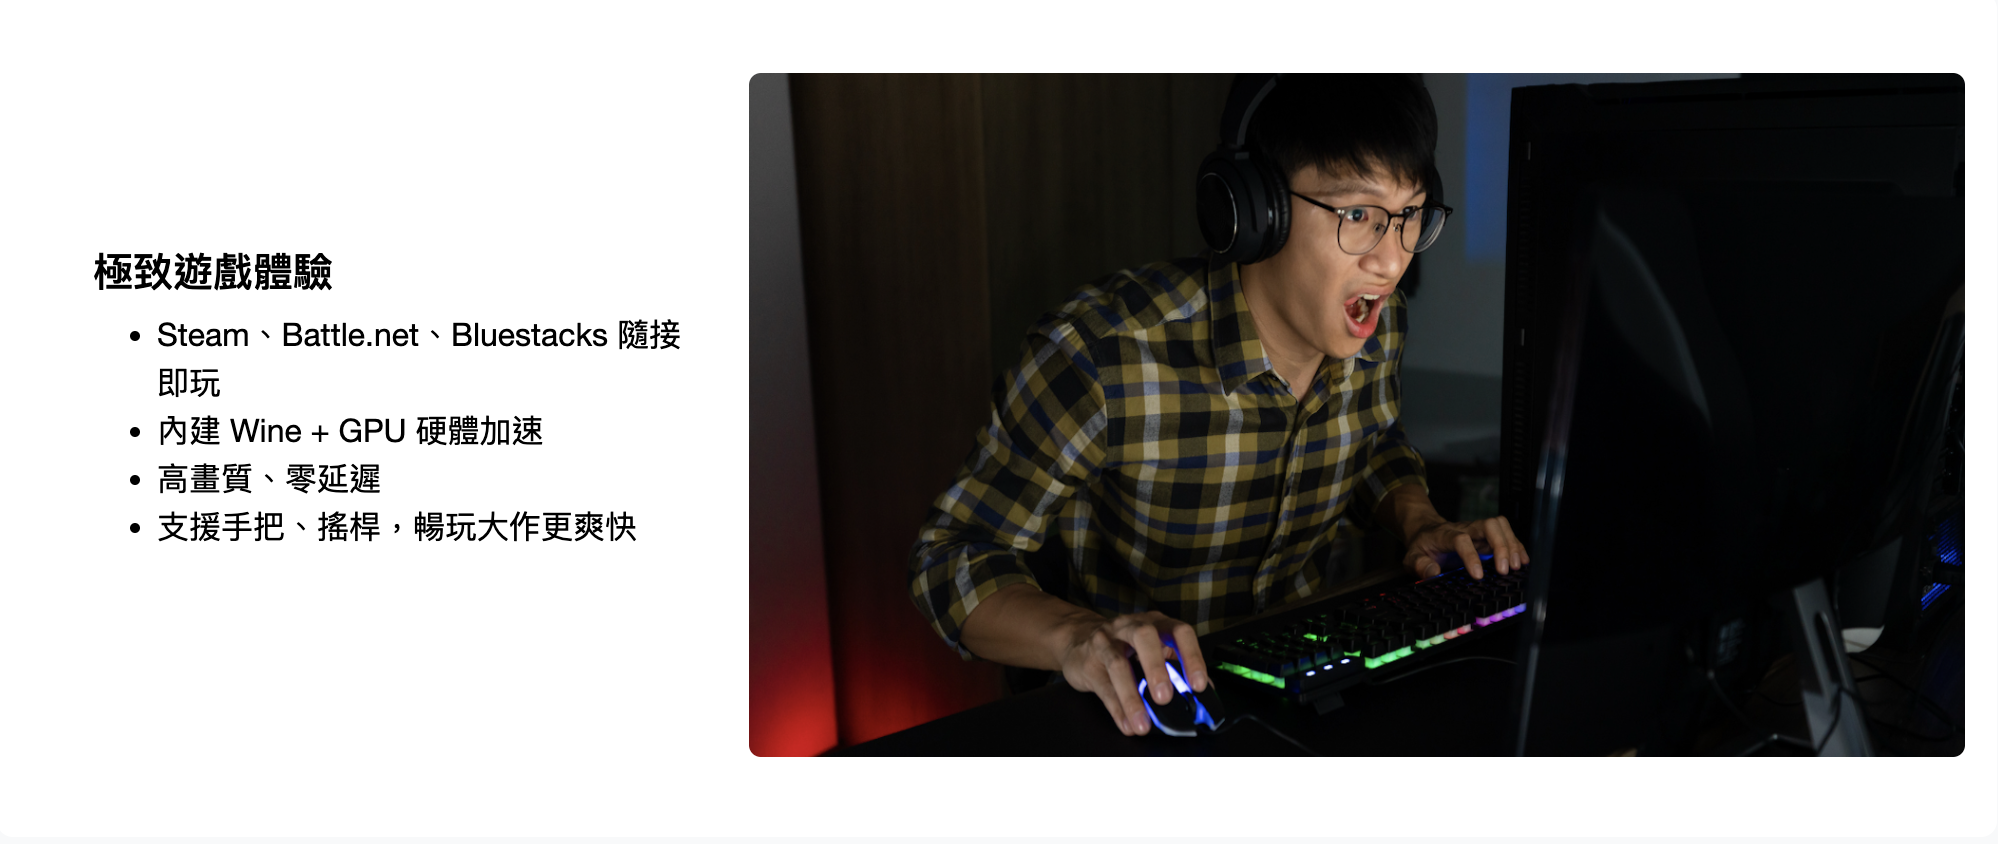
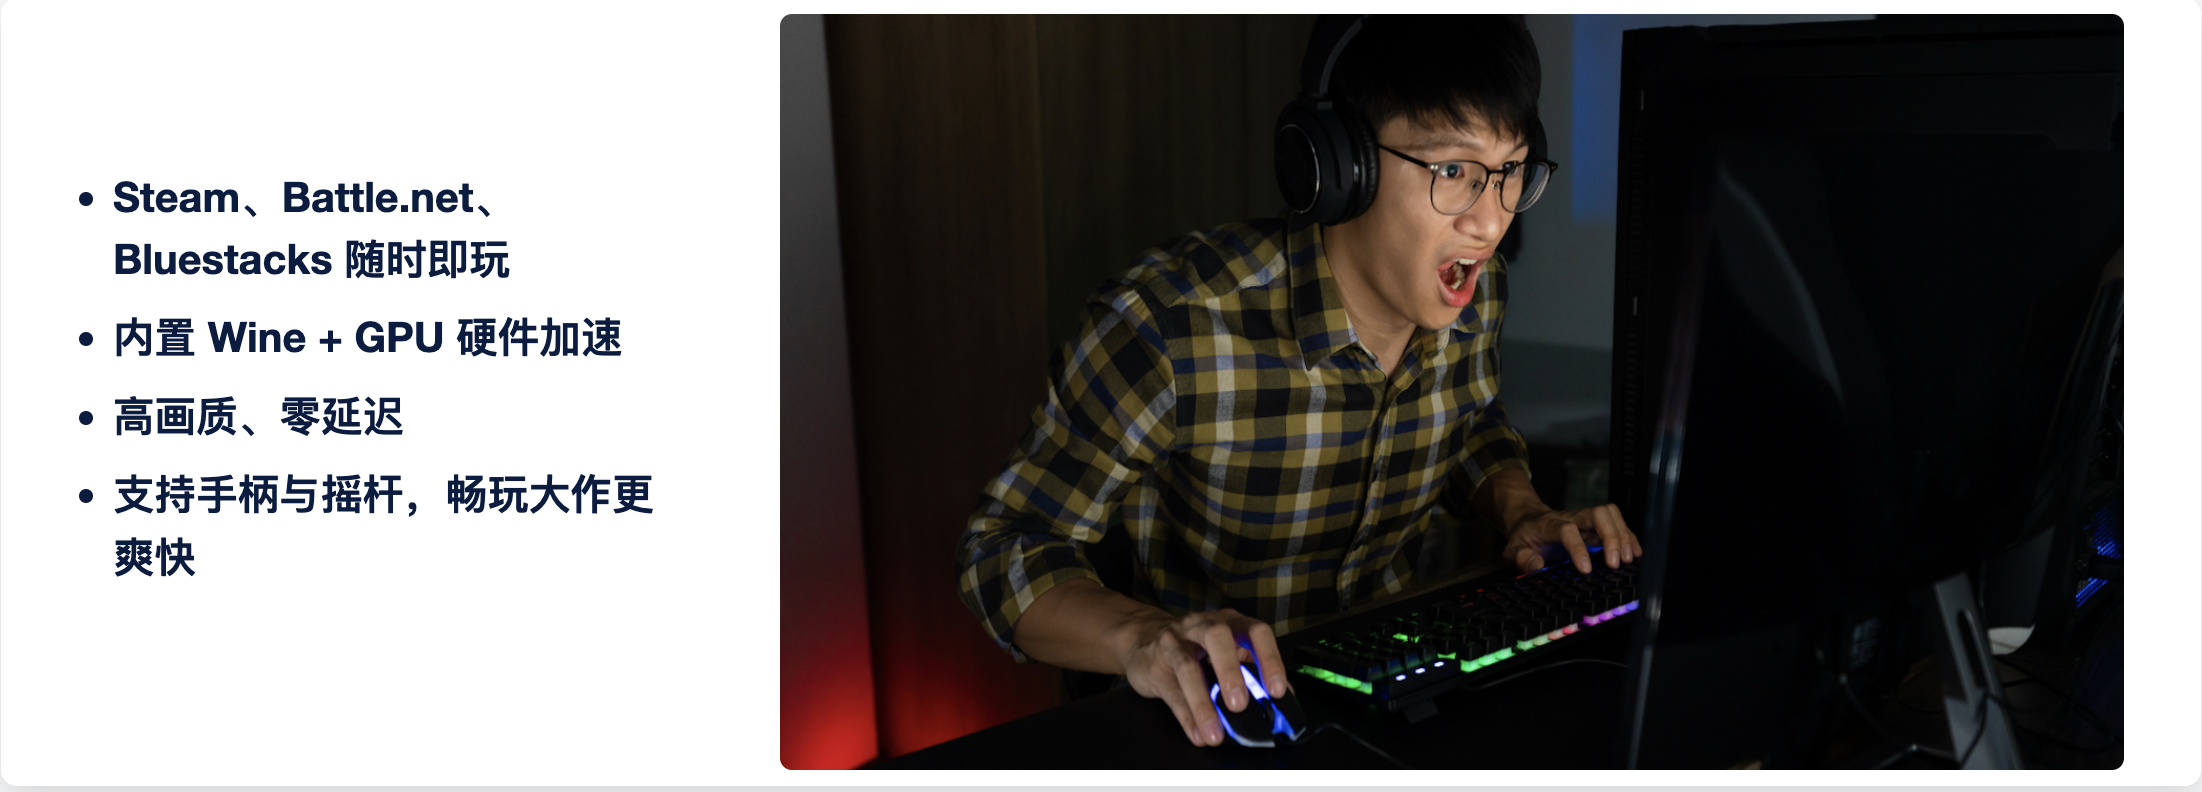
update index/css james

diff --git a/static/js/main.js b/static/js/main.js
@@ -14,15 +14,15 @@ const Utils = {
    * @returns {string} The selected language code (e.g., 'en', 'zh', 'zh_tw').
    */
   getLanguageFromNavigator() {
-    const navLang = navigator.language || navigator.userLanguage; // Get browser language (e.g., 'en-US', 'zh-CN')
-    if (navLang.startsWith('zh-HK') || navLang.startsWith('zh-TW') || navLang.startsWith('zh-hant')) {
-      return 'zh_tw'; // Traditional Chinese for Hong Kong or Taiwan
-    }
-    if (navLang.startsWith('zh')) return 'zh'; // Simplified Chinese
-    if (navLang.startsWith('ja')) return 'ja'; // Japanese
-    if (navLang.startsWith('ko')) return 'ko'; // Korean
-    if (navLang.startsWith('th')) return 'th'; // Thai
-    return 'en'; // Default to English
+    // const navLang = navigator.language || navigator.userLanguage; // Get browser language (e.g., 'en-US', 'zh-CN')
+    // if (navLang.startsWith('zh-HK') || navLang.startsWith('zh-TW') || navLang.startsWith('zh-hant')) {
+    //   return 'zh_tw'; // Traditional Chinese for Hong Kong or Taiwan
+    // }
+    // if (navLang.startsWith('zh')) return 'zh'; // Simplified Chinese
+    // if (navLang.startsWith('ja')) return 'ja'; // Japanese
+    // if (navLang.startsWith('ko')) return 'ko'; // Korean
+    // if (navLang.startsWith('th')) return 'th'; // Thai
+    return 'zh_tw'; // Default to English
   }
 };
 
@@ -106,8 +106,15 @@ const I18n = {
    * Initializes the page language based on saved preference or browser settings.
    * Sets the HTML lang attribute and updates UI.
    */
+  // async initLanguage() {
+  //   let lang = localStorage.getItem('lang') || Utils.getLanguageFromNavigator(); // Get saved or browser language
+  //   document.documentElement.setAttribute('lang', lang); // Set HTML lang attribute
+  //   await this.updateTexts(lang); // Load and apply translations
+  //   this.setLangUI(lang); // Update dropdown UI
+  // },
+
   async initLanguage() {
-    let lang = localStorage.getItem('lang') || Utils.getLanguageFromNavigator(); // Get saved or browser language
+    let lang =  Utils.getLanguageFromNavigator(); // Get saved or browser language
     document.documentElement.setAttribute('lang', lang); // Set HTML lang attribute
     await this.updateTexts(lang); // Load and apply translations
     this.setLangUI(lang); // Update dropdown UI

diff --git a/static/css/style_mobile.css b/static/css/style_mobile.css
@@ -26,7 +26,7 @@ body {
 }
 
 .section-about .core-title {
-  color: #b4b4b4;
+  color: #051d40;
   font-weight: 700;
   font-size: 2rem;
   margin-bottom: 40px;
@@ -89,7 +89,7 @@ body {
   align-items: center;
   transition: color 0.3s ease;
   position: relative;
-  font-size: 1.1rem;  /* 字体稍微缩小 */
+  font-size: 1.3rem;  /* 字体稍微缩小 */
 }
 
 /* 竖条分隔（仅桌面端显示） */
@@ -381,7 +381,7 @@ footer .social-icons a:hover {
 }
 
 .section1 .core-title {
-  color: #b4b4b4;/* 深蓝色字体 */
+  color: #051d40;/* 深蓝色字体 */
   font-weight: 700; /* 粗体 */
   font-size: 2rem;
   margin-bottom: 40px;
@@ -664,7 +664,7 @@ footer .social-icons a:hover {
 }
 
 #section3 .core-title {
-  color: #b4b4b4; /* 灰色 */
+  color: #051d40; /* 灰色 */
   font-weight: 700; /* 粗体 */
   font-size: 2rem;
   transition: color 0.3s ease; /* 平滑过渡 */
